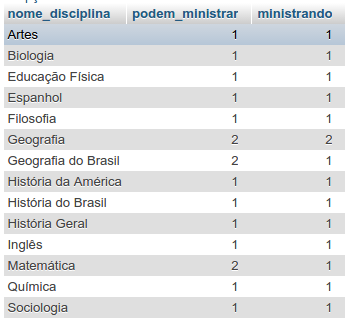
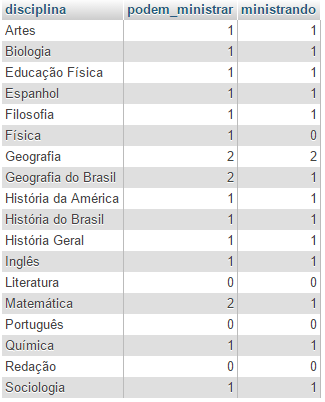
final

diff --git a/README.md b/README.md
@@ -246,20 +246,13 @@ HAVING COUNT(DISTINCT m.turma_id) >= 3
 
 - 5) Listar por disciplina o número de professores que podem ministrá-la e quantos efetivamente ministram a mesma para uma turma.
 ```sql
-SELECT d.nome nome_disciplina, COUNT(DISTINCT p.professor_id) podem_ministrar, temp.ministrando
-FROM professor p
-  JOIN professor_disciplina pd
-    ON p.professor_id = pd.professor_id
-  JOIN disciplina d
-    ON pd.disciplina_id = d.disciplina_id
-  JOIN (
-    SELECT mt.disciplina_id, COUNT(DISTINCT p.professor_id) ministrando
-    FROM professor p
-      LEFT JOIN ministra_turma mt
-        ON p.professor_id = mt.professor_id
-    GROUP BY mt.disciplina_id) temp
-   ON temp.disciplina_id = d.disciplina_id
-   GROUP BY nome_disciplina
+SELECT d.nome disciplina, COUNT(distinct p.professor_id) podem_ministrar, 
+COUNT(distinct mt.professor_id) ministrando
+FROM disciplina d
+LEFT JOIN professor_disciplina pd ON d.disciplina_id = pd.disciplina_id
+LEFT JOIN professor p ON pd.professor_id = p.professor_id
+LEFT JOIN ministra_turma mt ON d.disciplina_id = mt.disciplina_id
+GROUP BY d.nome;
 ```
 
 ![questao1](img/05.png)
